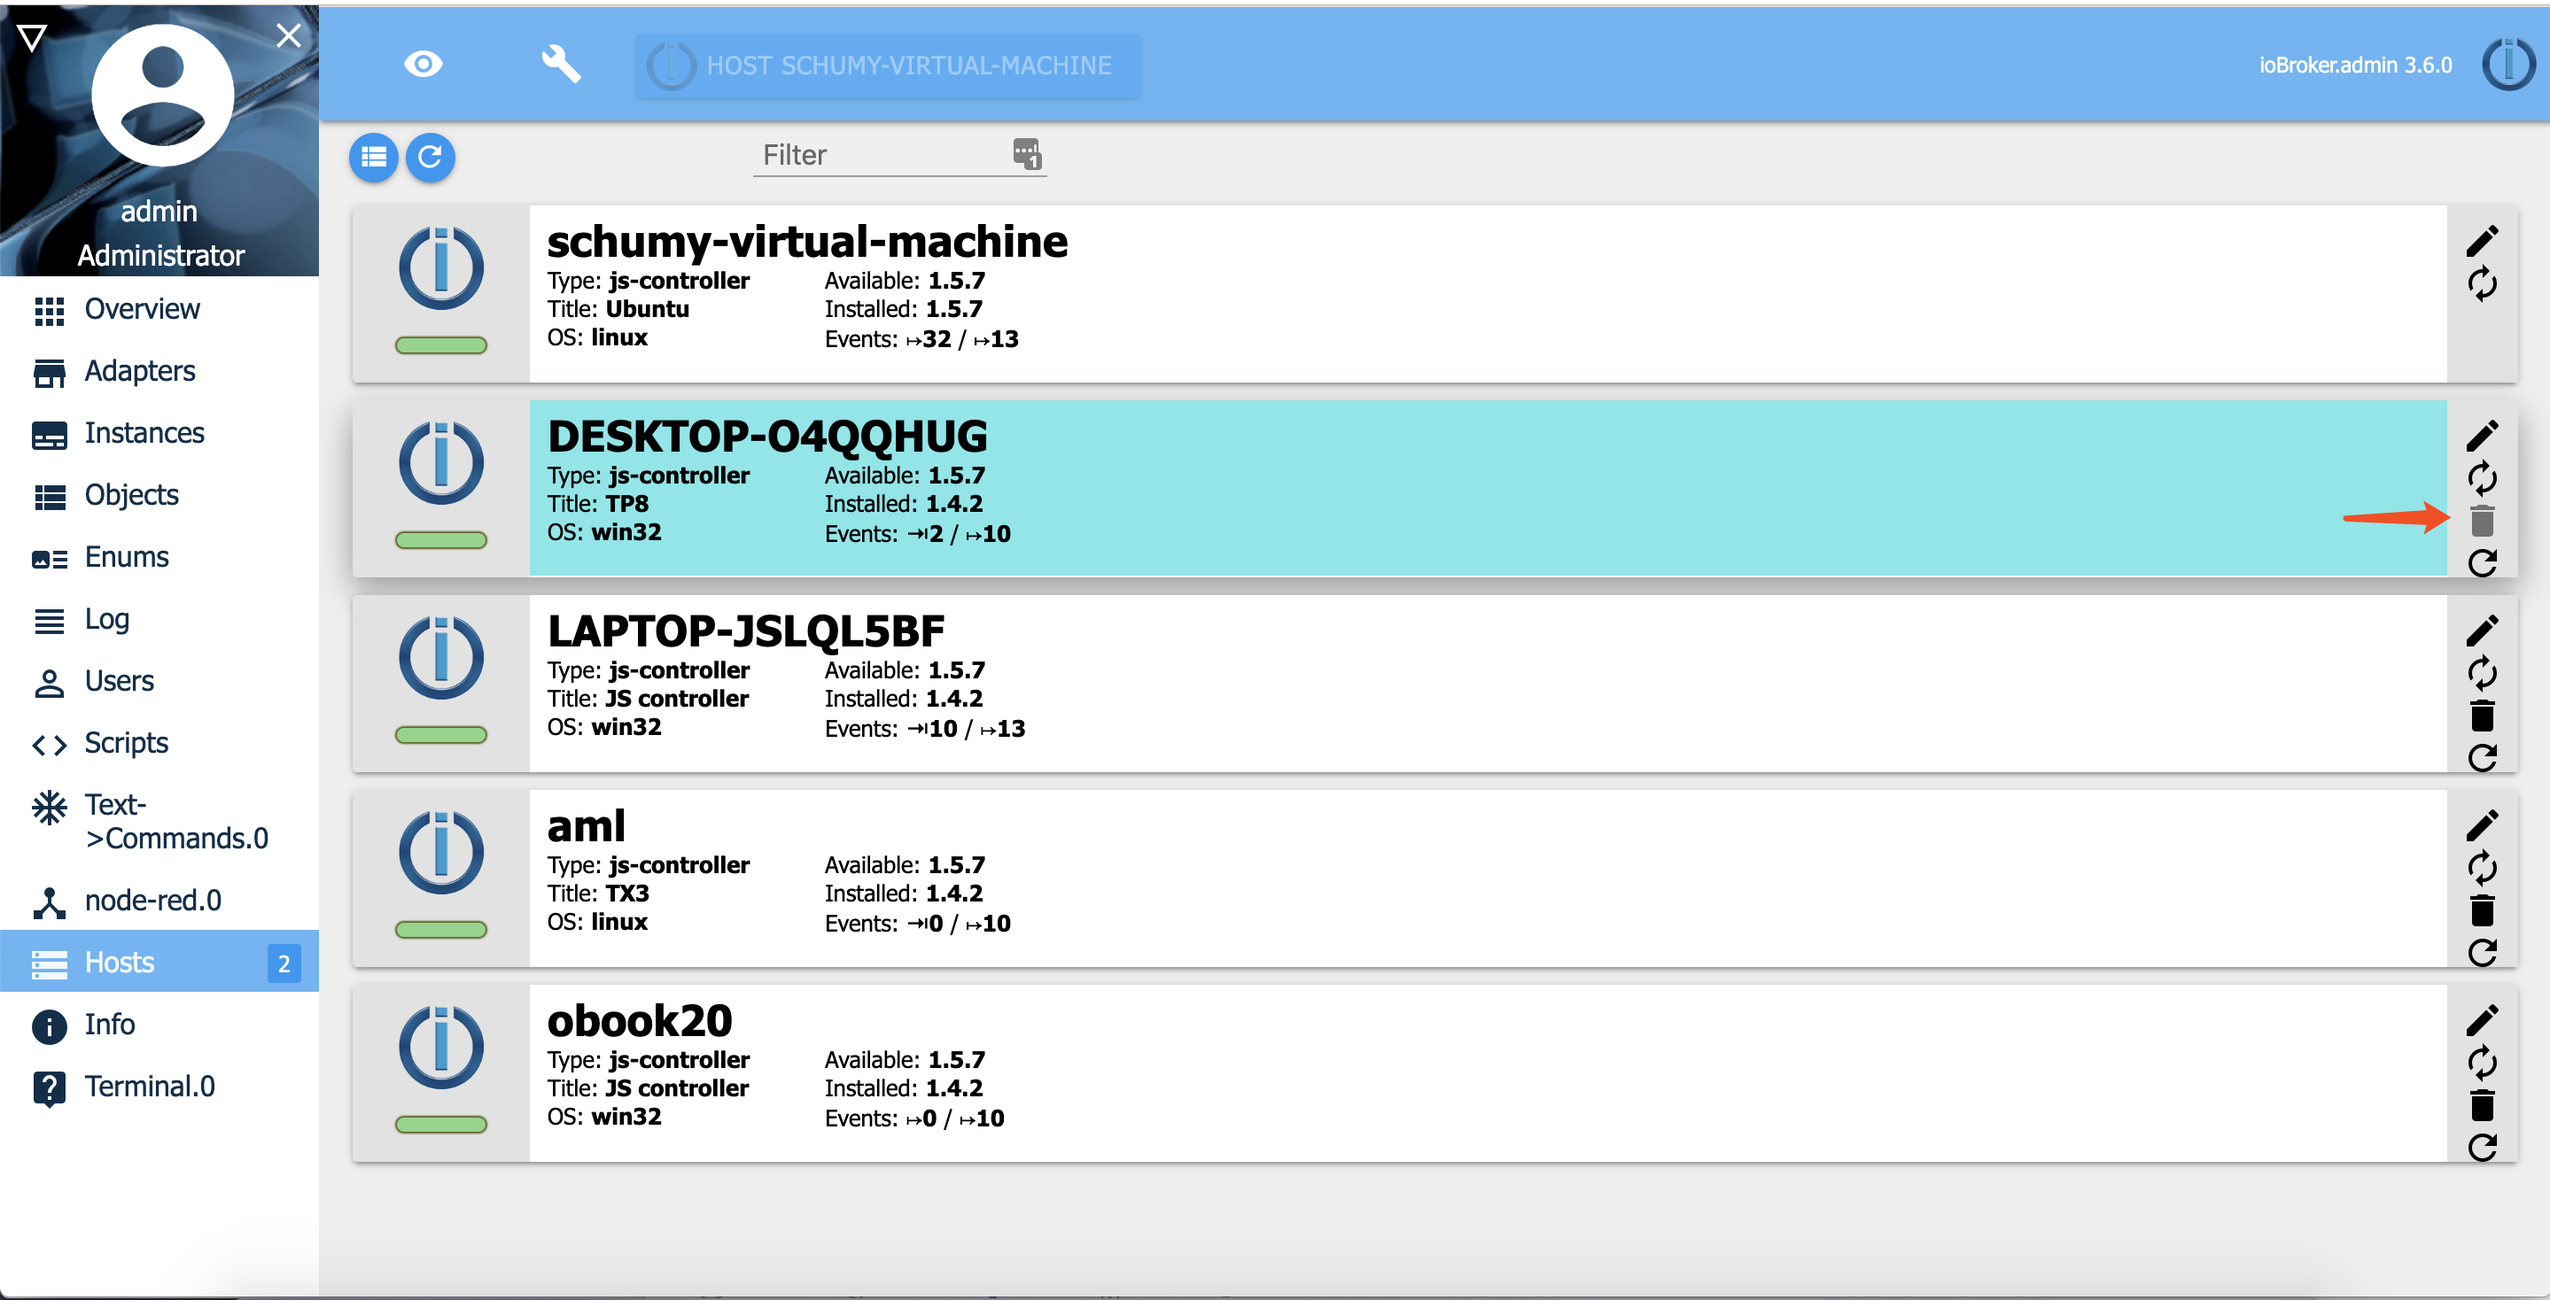
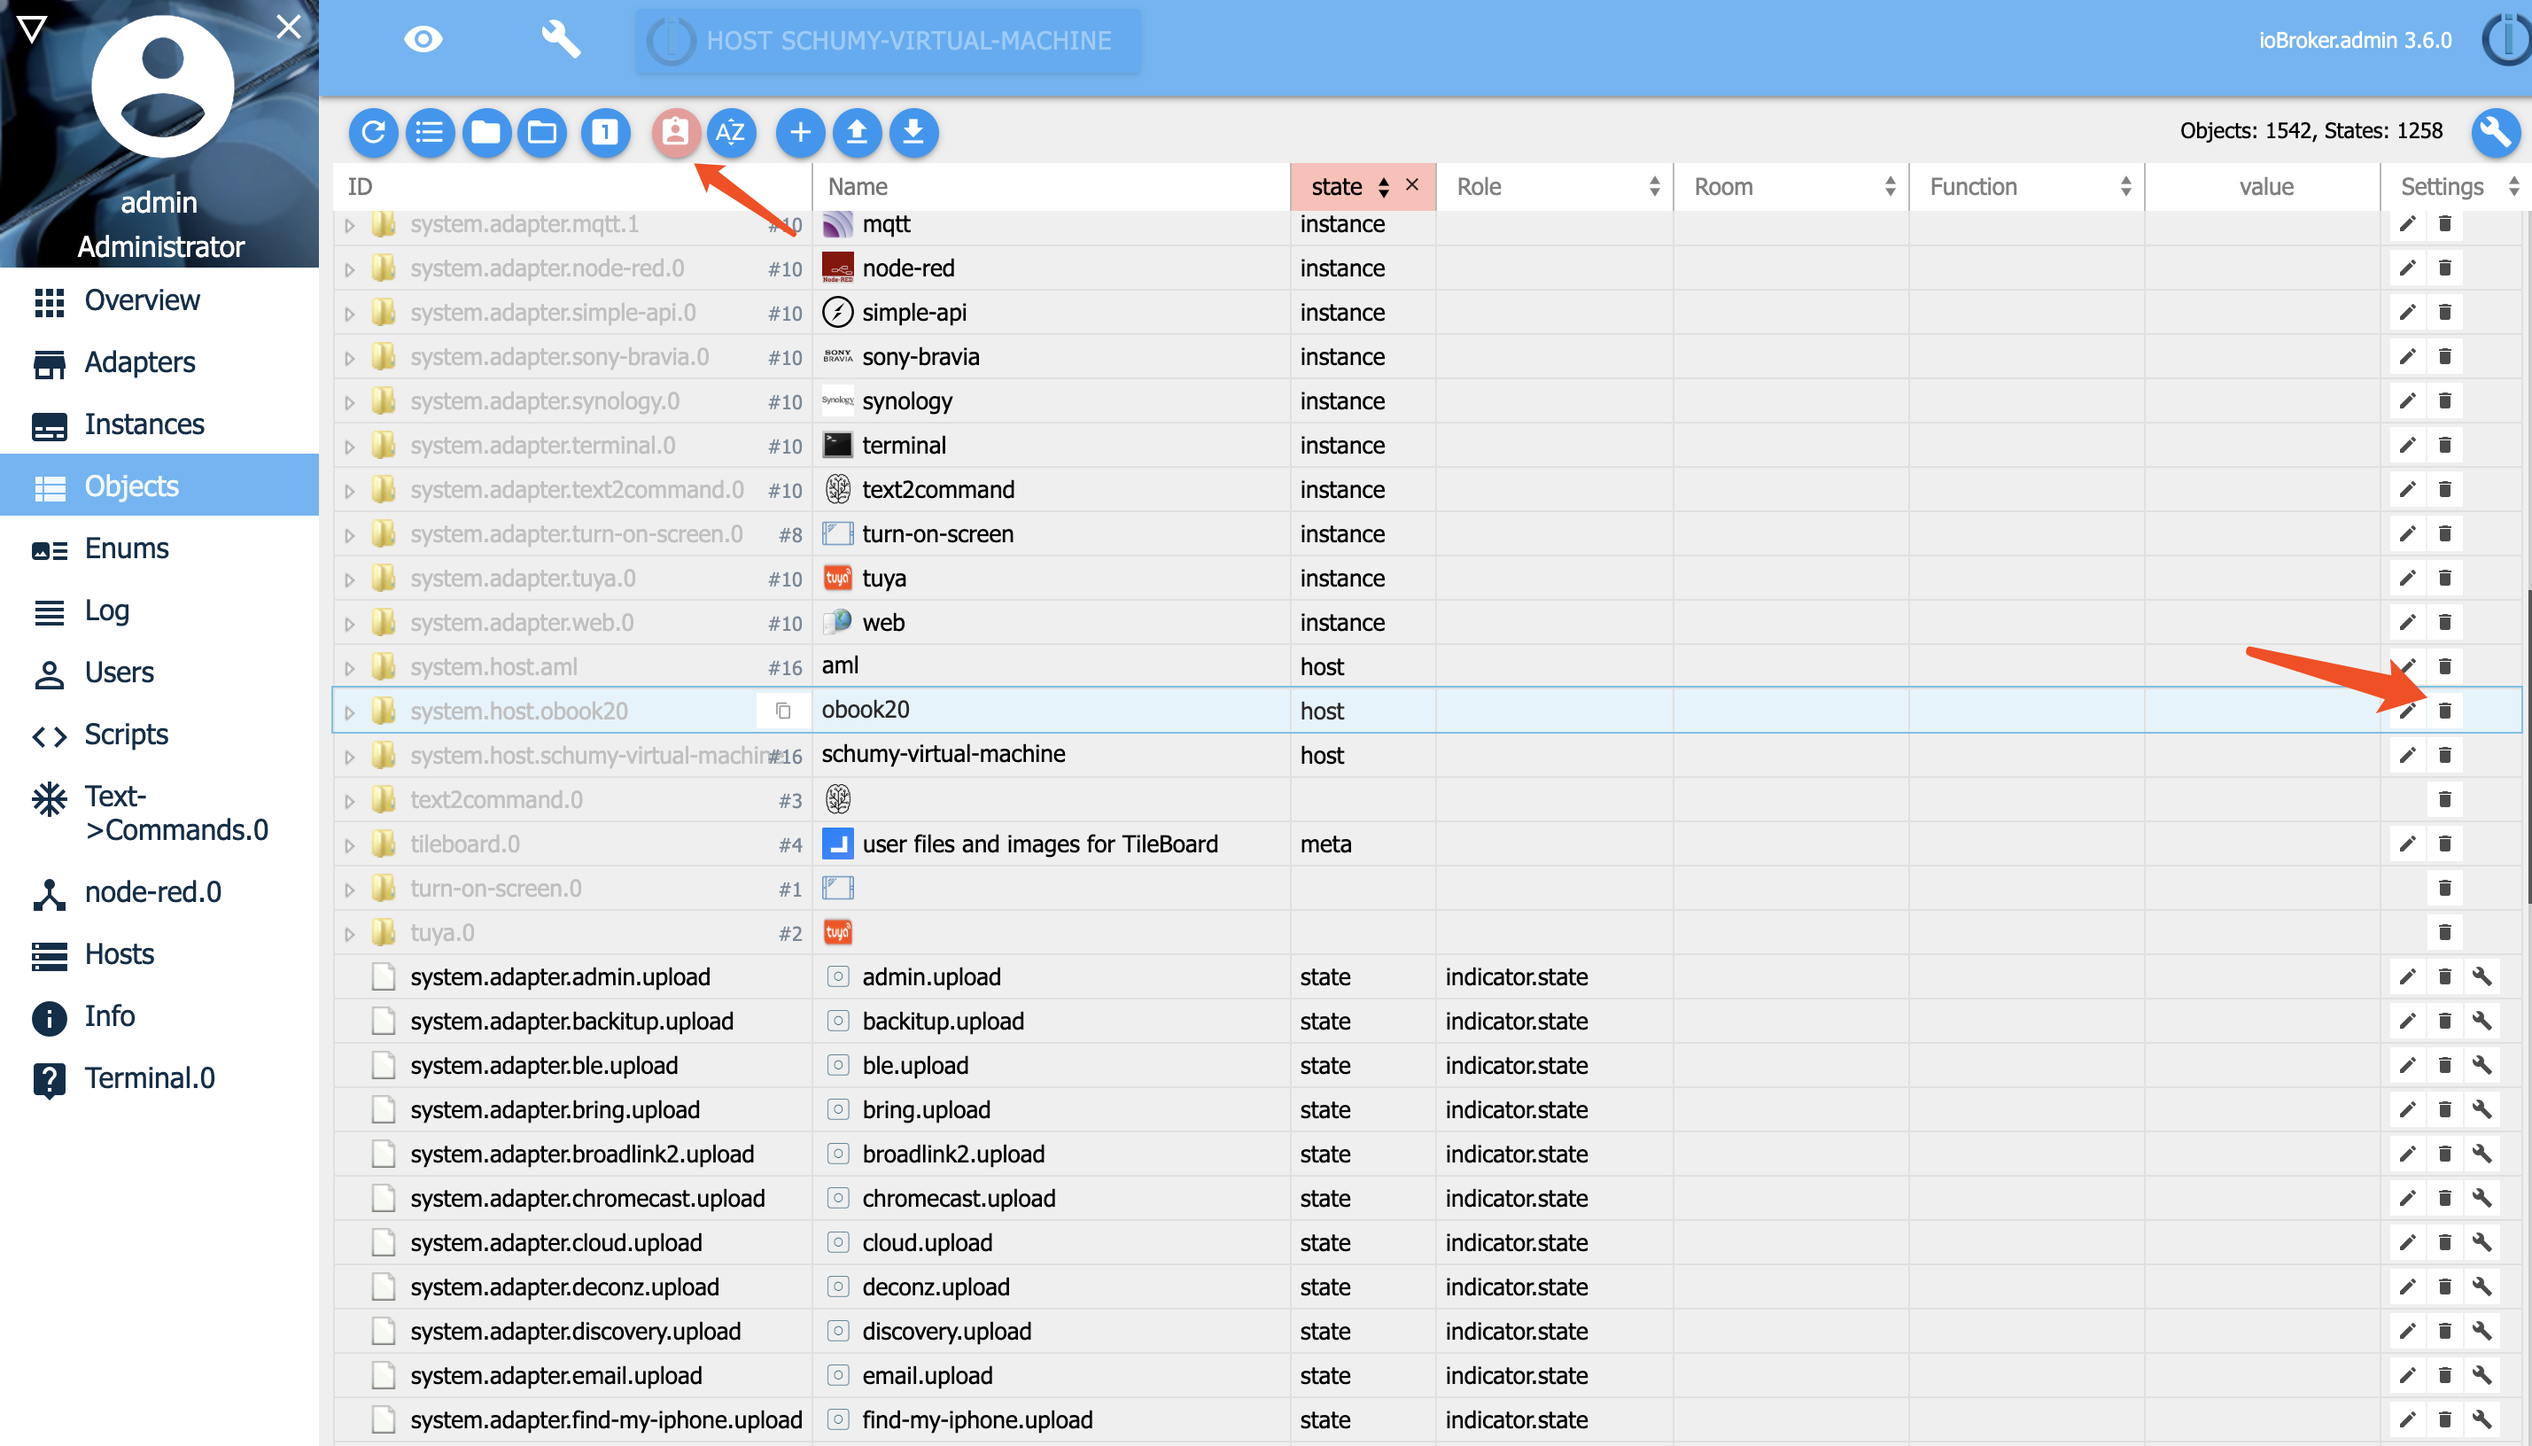
Update how to delete multihost

Changed region(s): [[0.0, 0.0, 1.0, 1.0]]

diff --git a/docs/zh-cn/config/multihost.md b/docs/zh-cn/config/multihost.md
@@ -111,6 +111,8 @@ iobroker restart # 重启ioBroker
 仅可以删除**从系统**主机。
 
 首先要将从系统主机的ioBroker系统停止。
-然后在管理员-主机页面上，点击需要删除的从系统主机列表右侧的删除图标完成主机的删除操作。
+
+然后在管理员-对象页面上，打开*专家模式*，找到`system.host`开头的从系统主机的对象，
+点击删除图标并确定删除全部对象，完成主机的删除操作。
 
 ![](./media/MultihostDeleteHost.png)
